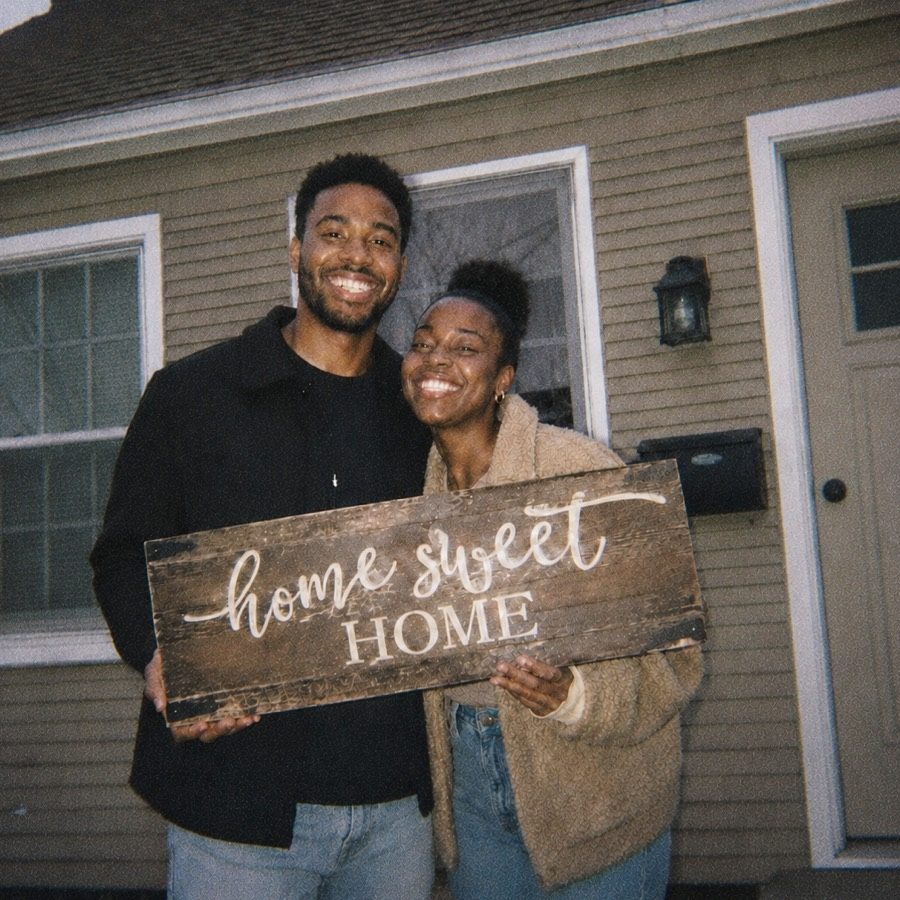
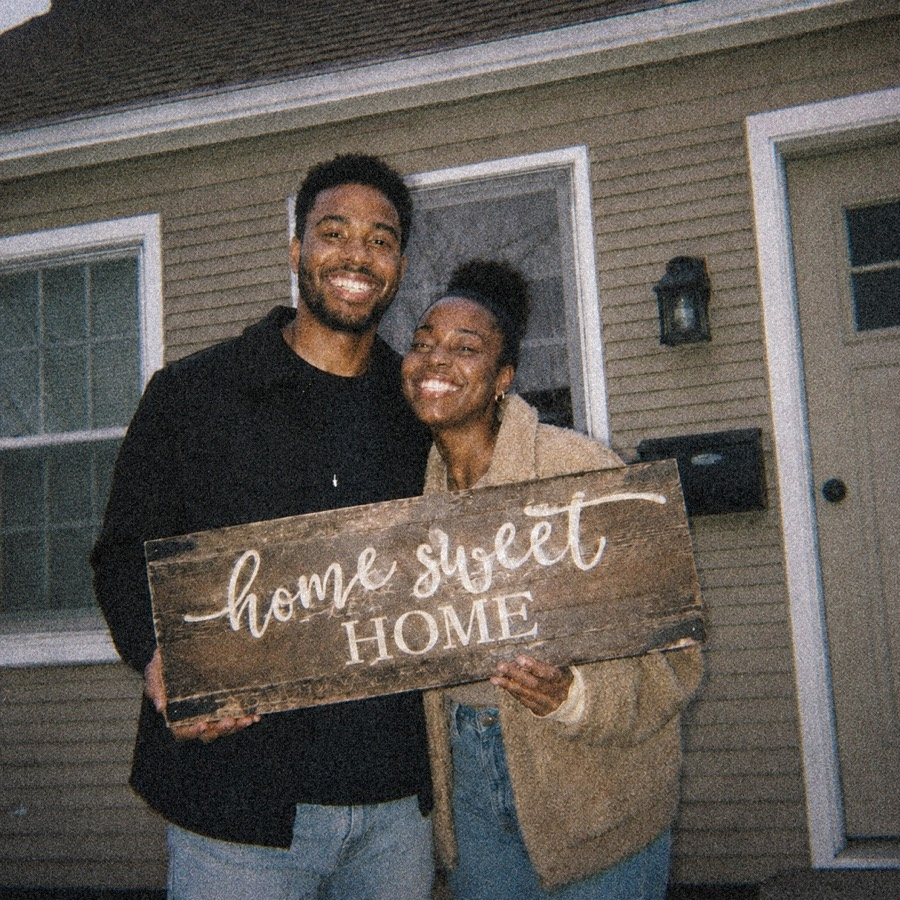
Develop from near-black; homebuyer 4 added, homebuyer 3 refreshed

diff --git a/index.html b/index.html
@@ -421,7 +421,7 @@ body{position:relative;}
   background:linear-gradient(160deg,#E2E0DC,#D3D1CC);
   border-radius:1px;
   box-shadow:inset 0 0 0 1px rgba(0,0,0,.16),inset 0 1px 4px rgba(0,0,0,.24),0 2px 3px -2px rgba(0,0,0,.28); /* pod shading below window */
-  filter:saturate(.12) brightness(1.45) contrast(.82); /* undeveloped print */
+  filter:saturate(.15) brightness(.07) contrast(1.05); /* undeveloped print: near black */
   transition:filter 4.5s ease .3s;
 }
 .polaroid.in .photo{filter:none;} /* develops on reveal */
@@ -856,7 +856,7 @@ footer{border-top:1px solid var(--ink-12);padding-block:56px 40px;}
     </div>
     <div class="shoebox">
       <figure class="polaroid rv"><span class="photo"><img src="photos/homebuyer-1.jpg" alt="New homeowners celebrating at their front door" loading="lazy" /></span></figure>
-      <figure class="polaroid rv"><span class="photo" role="img" aria-label="Photo placeholder"></span></figure>
+      <figure class="polaroid rv"><span class="photo"><img src="photos/homebuyer-4.jpg" alt="Clients with their agent outside the new house" loading="lazy" /></span></figure>
       <figure class="polaroid rv"><span class="photo"><img src="photos/homebuyer-2.jpg" alt="Clients celebrating a closed deal" loading="lazy" /></span></figure>
       <figure class="polaroid rv"><span class="photo" role="img" aria-label="Photo placeholder"></span></figure>
       <figure class="polaroid rv"><span class="photo"><img src="photos/homebuyer-3.jpg" alt="New homeowners on moving day" loading="lazy" /></span></figure>